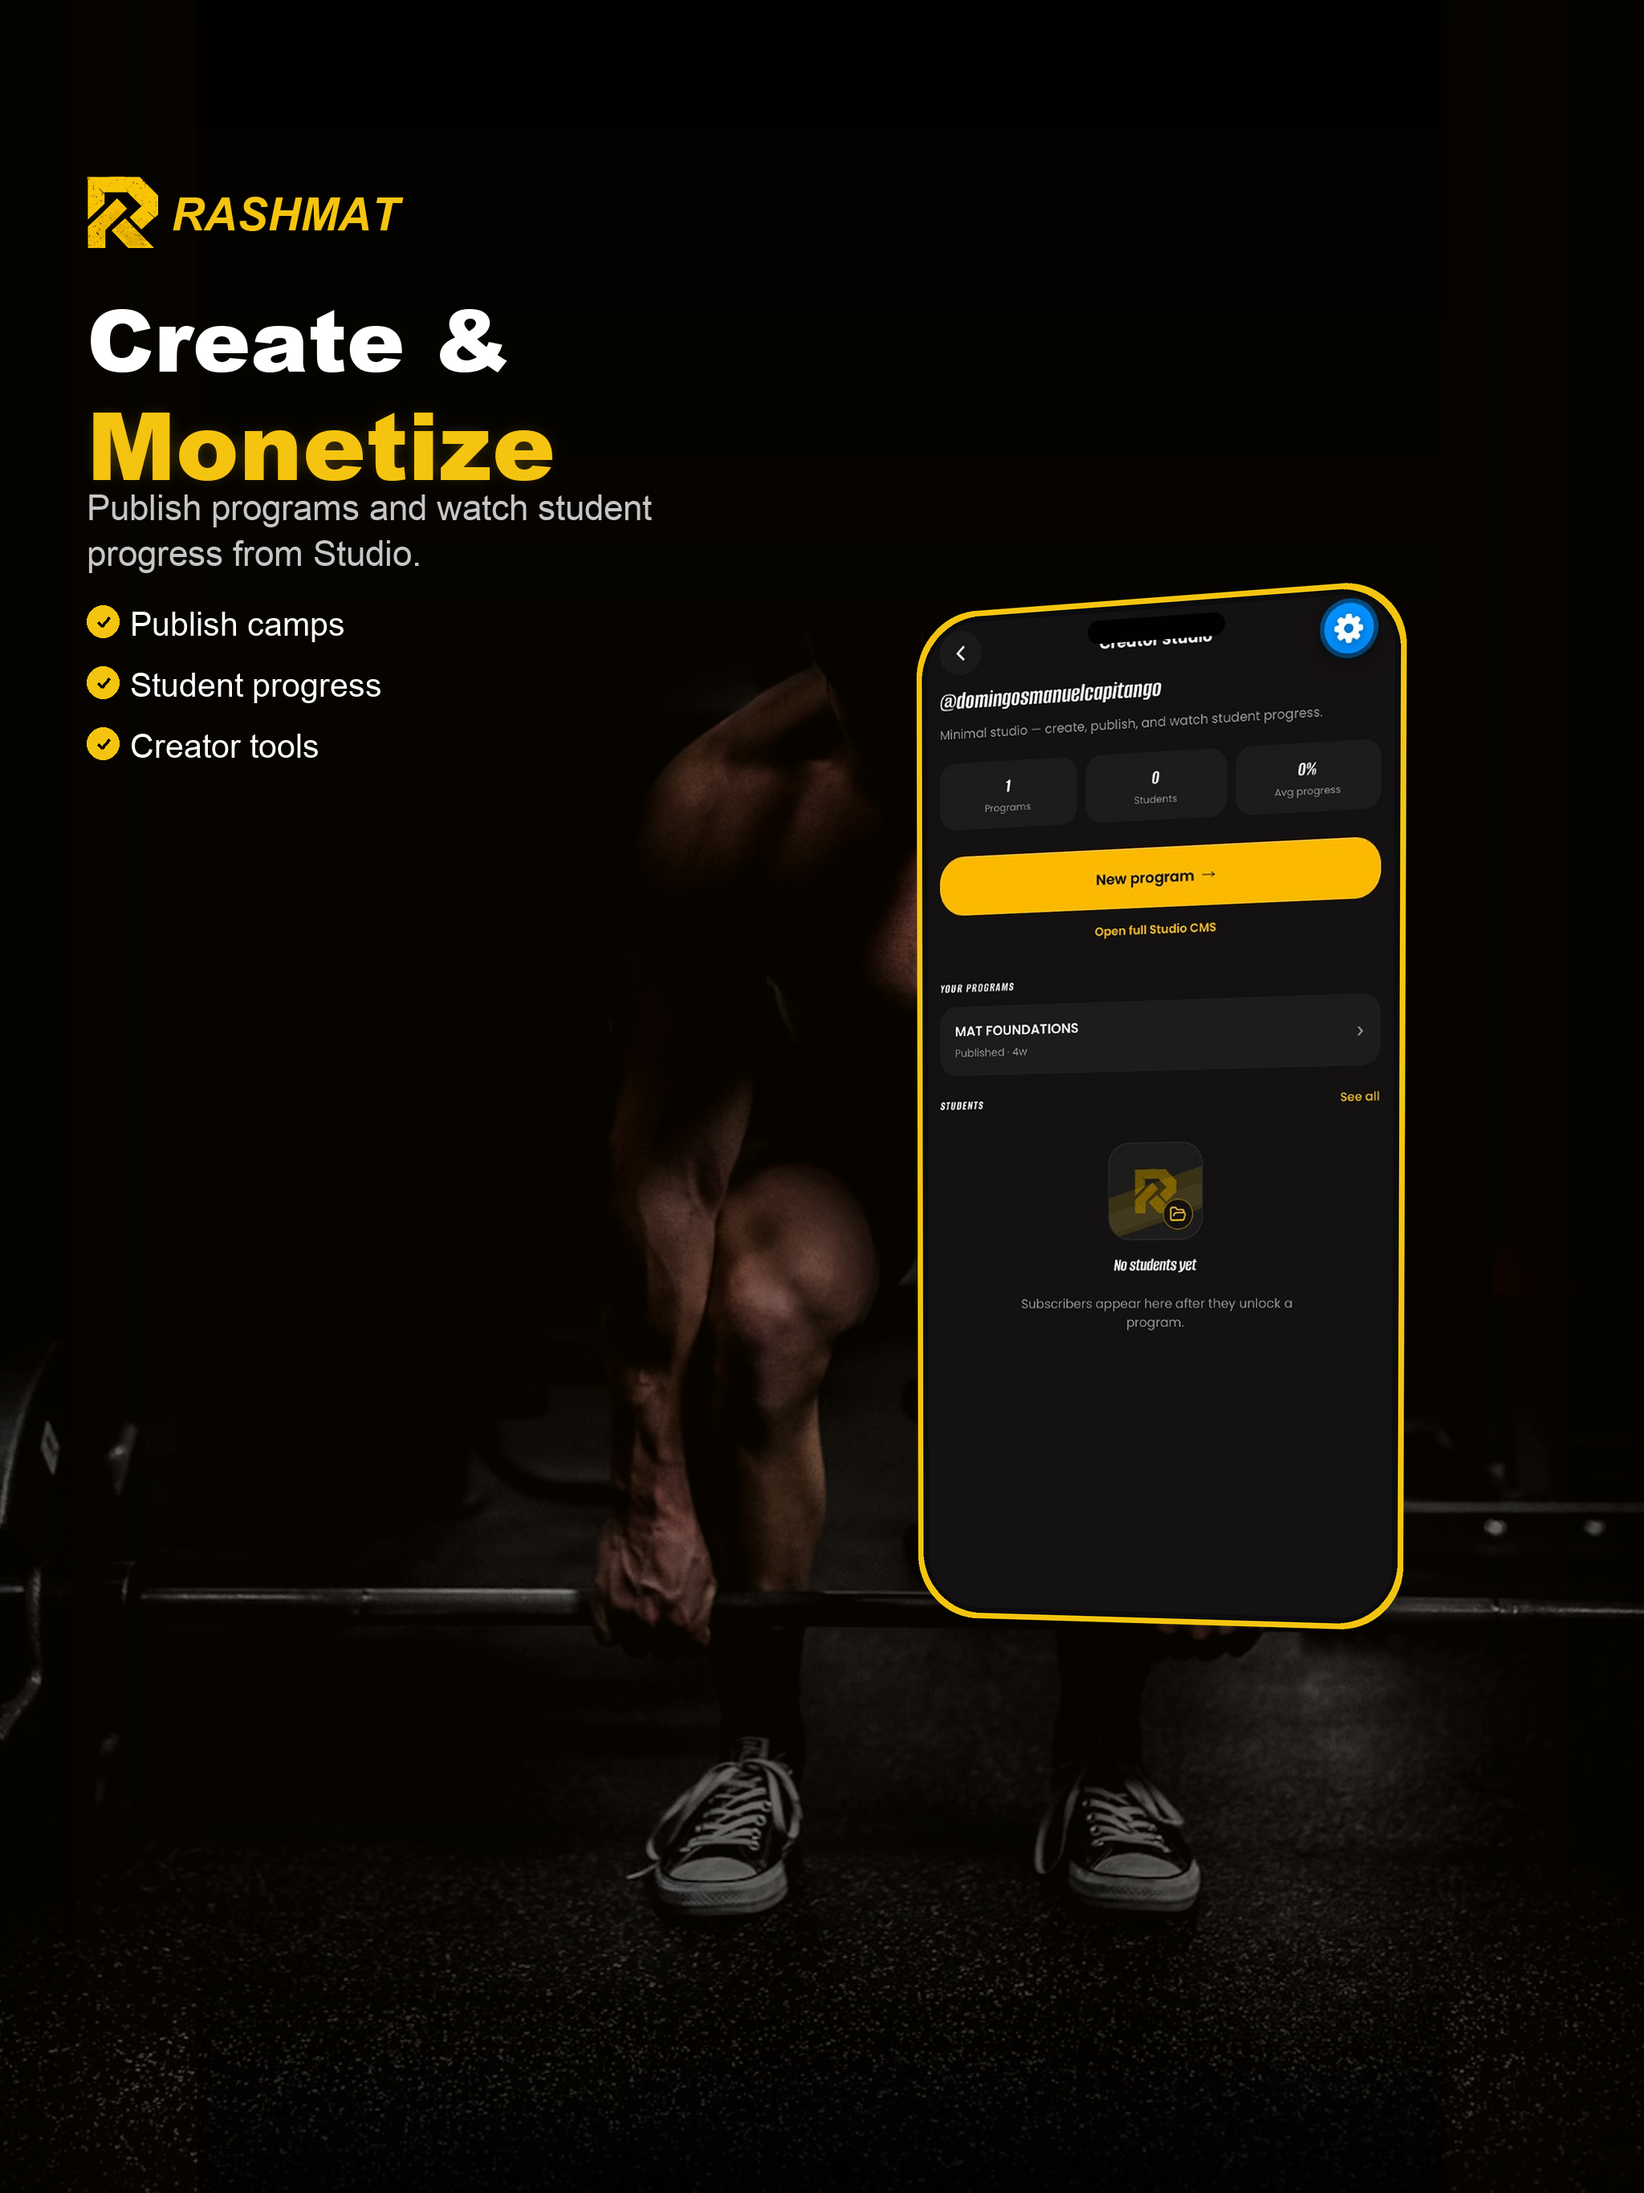
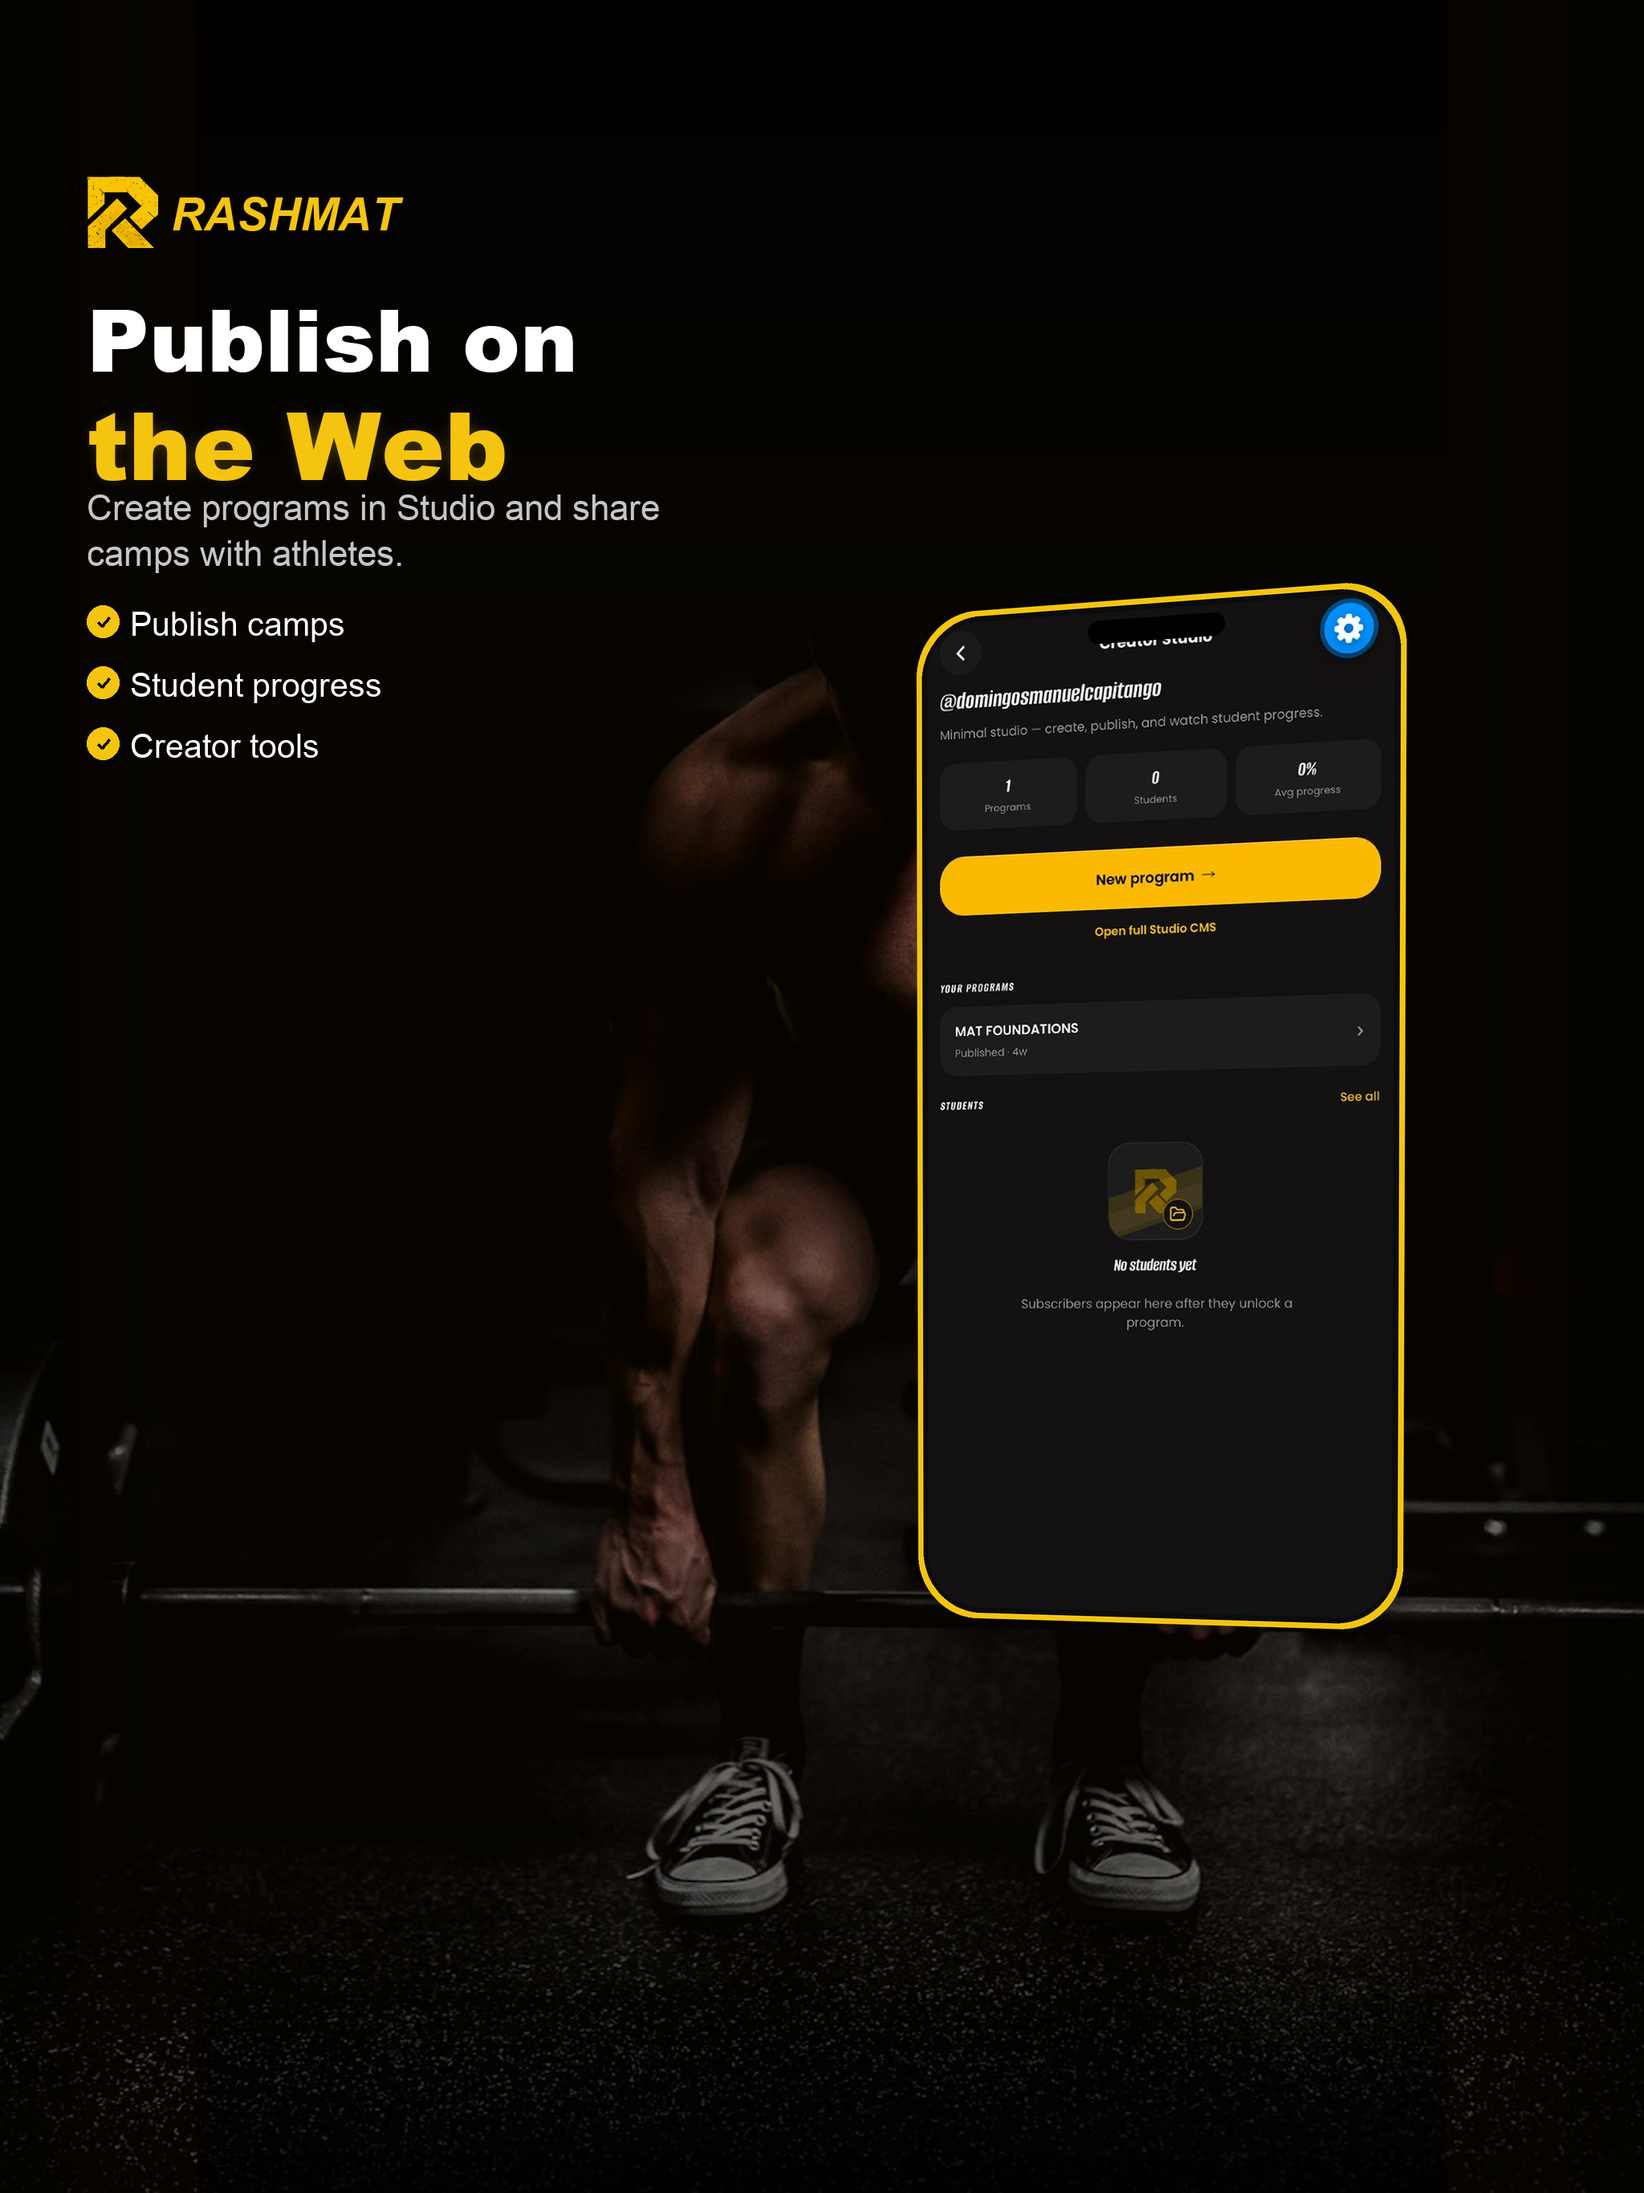
Update 08-studio screenshot and related text to reflect new branding. Change headline to "Publish on the Web" and update subtext to "Create programs in Studio and share camps with athletes." Modify README to match the updated screenshot description.

Changed region(s): [[0.0625, 0.1245, 0.4062, 0.28]]

diff --git a/store-screenshots/compose.py b/store-screenshots/compose.py
@@ -109,8 +109,8 @@ SLIDES = [
         "file": "08-studio.png",
         "src": "IMG_6436_1-cdb34de6-a574-43b9-84d4-54dda9fd1a75.png",
         "bg": "bg-ig-section.jpg",
-        "headline": ("Create &", "Monetize"),
-        "sub": "Publish programs and watch student progress from Studio.",
+        "headline": ("Publish on", "the Web"),
+        "sub": "Create programs in Studio and share camps with athletes.",
         "features": ["Publish camps", "Student progress", "Creator tools"],
         "tilt": -7,
     },

diff --git a/store-screenshots/README.md b/store-screenshots/README.md
@@ -24,7 +24,7 @@ Regenerate both:
 5. `05-program.png` — Structured Camps  
 6. `06-session.png` — Drill. Rest. Repeat.  
 7. `07-medals.png` — Progress that Sticks  
-8. `08-studio.png` — Create & Monetize  
+8. `08-studio.png` — Publish on the Web  
 
 In App Store Connect → version 1.0 → **Previews and Screenshots**:
 - iPhone 6.5" → drag `iphone-6.5/` (at least 3)
